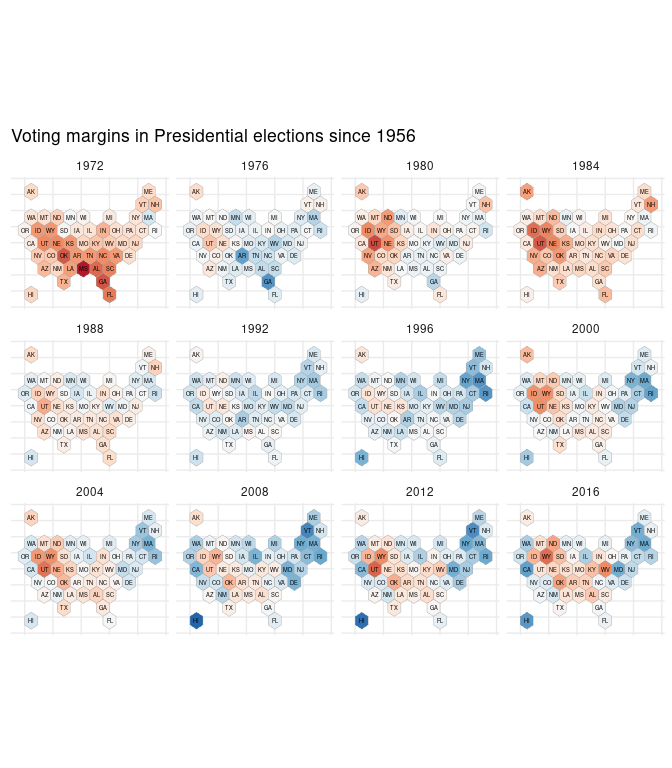
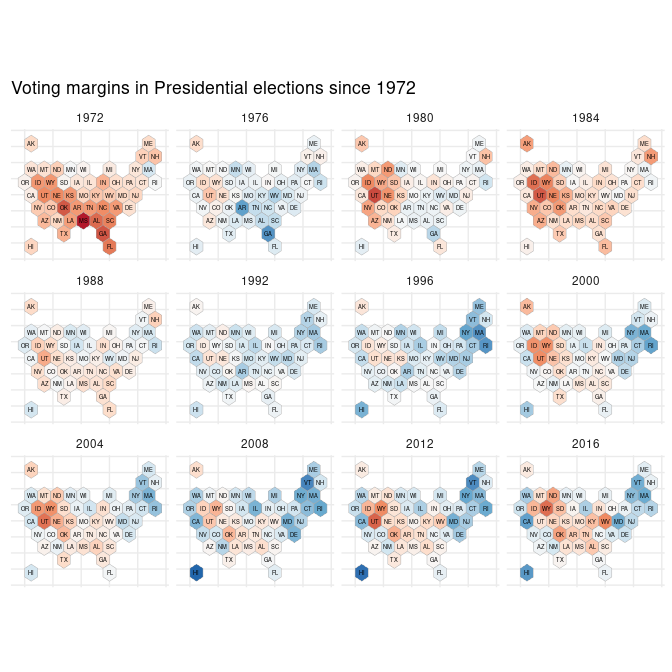
re

Changed region(s): [[0.0312, 0.4375, 1.0, 0.875], [0.0, 0.125, 1.0, 0.4375], [0.125, 0.4062, 0.1562, 0.4375]]

diff --git a/README.md b/README.md
@@ -207,8 +207,8 @@ vvo <- lapply(c('house', 'senate'), function(x) {
     filter(congress > con & chamber != 'President') }) #66
 ```
 
-    ## [1] "/tmp/RtmpUb0FtL/Hall_members.csv"
-    ## [1] "/tmp/RtmpUb0FtL/Sall_members.csv"
+    ## [1] "/tmp/Rtmp8SUgsE/Hall_members.csv"
+    ## [1] "/tmp/Rtmp8SUgsE/Sall_members.csv"
 
 ``` r
 congress <- vvo %>%
@@ -280,7 +280,7 @@ uspols::xsf_TileOutv10 %>%
   scale_fill_distiller(palette = "RdBu", direction=-1) +
   facet_wrap(~year) +
   theme_minimal()+ theme_guide() +
-  labs(title = "Voting margins in Presidential elections since 1956")
+  labs(title = "Voting margins in Presidential elections since 1972")
 ```
 
 ![](README_files/figure-markdown_github/unnamed-chunk-13-1.png)
